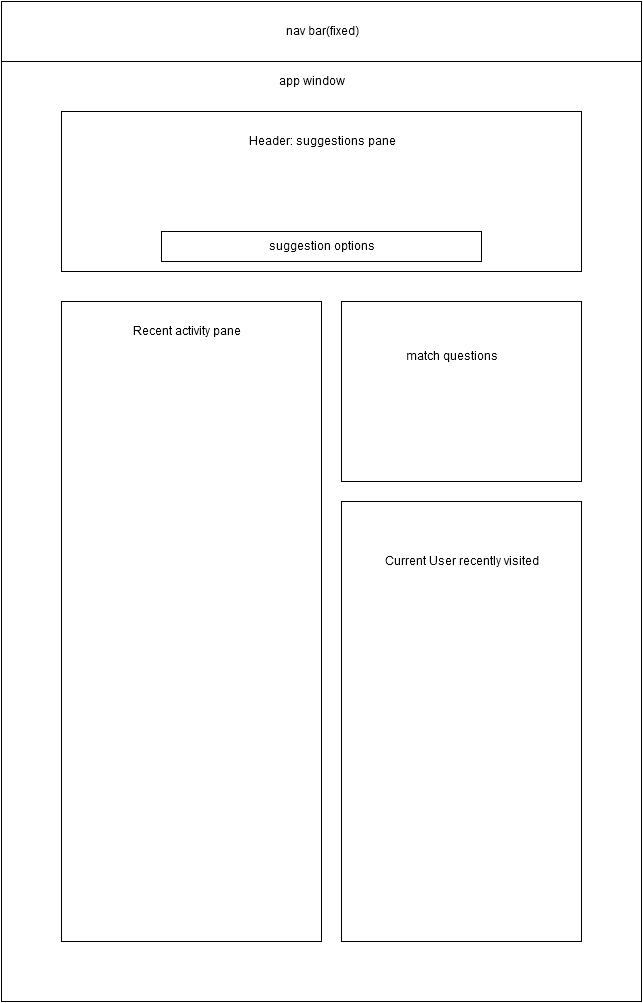
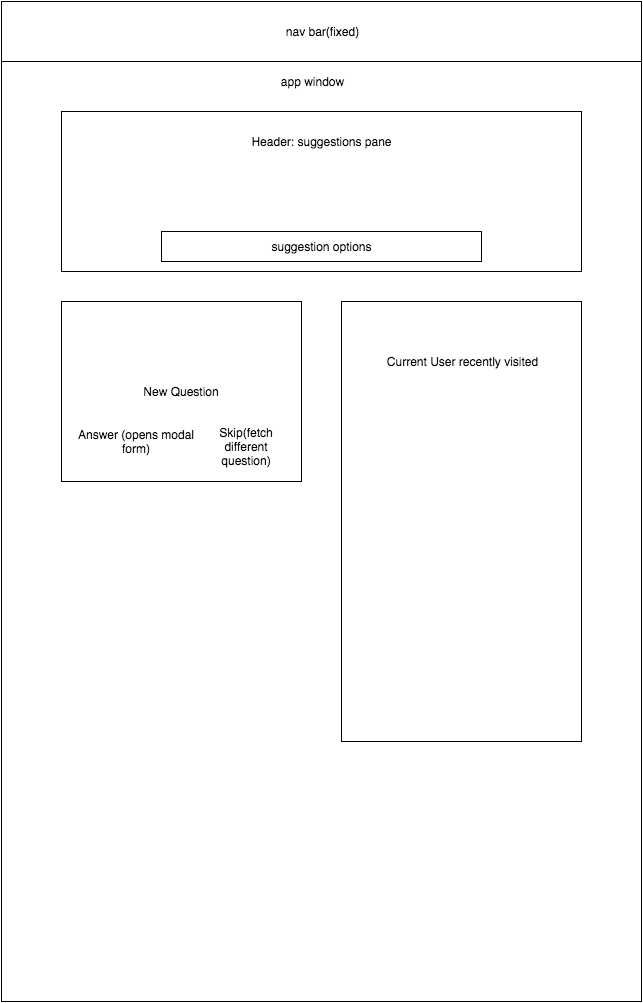
Wireframes edited, home page now contains question and question form components

diff --git a/docs/components.md b/docs/components.md
@@ -11,6 +11,8 @@ _**exactly**_ match the nesting of your routes.)
     * Suggestions
     * Visits
       * VisitItem
+    * NewQuestion
+      * QuestionForm
   * **MatchesIndex**
     * MatchList
       * MatchListItem
